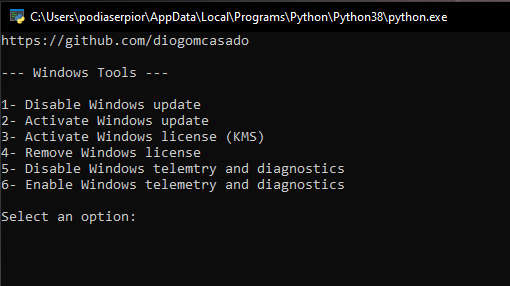
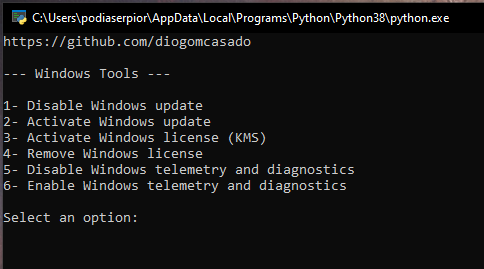
update

Changed region(s): [[0.0, 0.0, 1.0, 1.0], [0.062, 0.2379, 0.3409, 0.2974]]

diff --git a/windows_tools.py b/windows_tools.py
@@ -110,7 +110,7 @@ if is_admin():
             print("2- Activate Windows update")
             print("3- Activate Windows license (KMS)")
             print("4- Remove Windows license")
-            print("5- Disable Windows telemtry and diagnostics")
+            print("5- Disable Windows telemetry and diagnostics")
             print("6- Enable Windows telemetry and diagnostics\n")
             option = input("Select an option: ")
 
